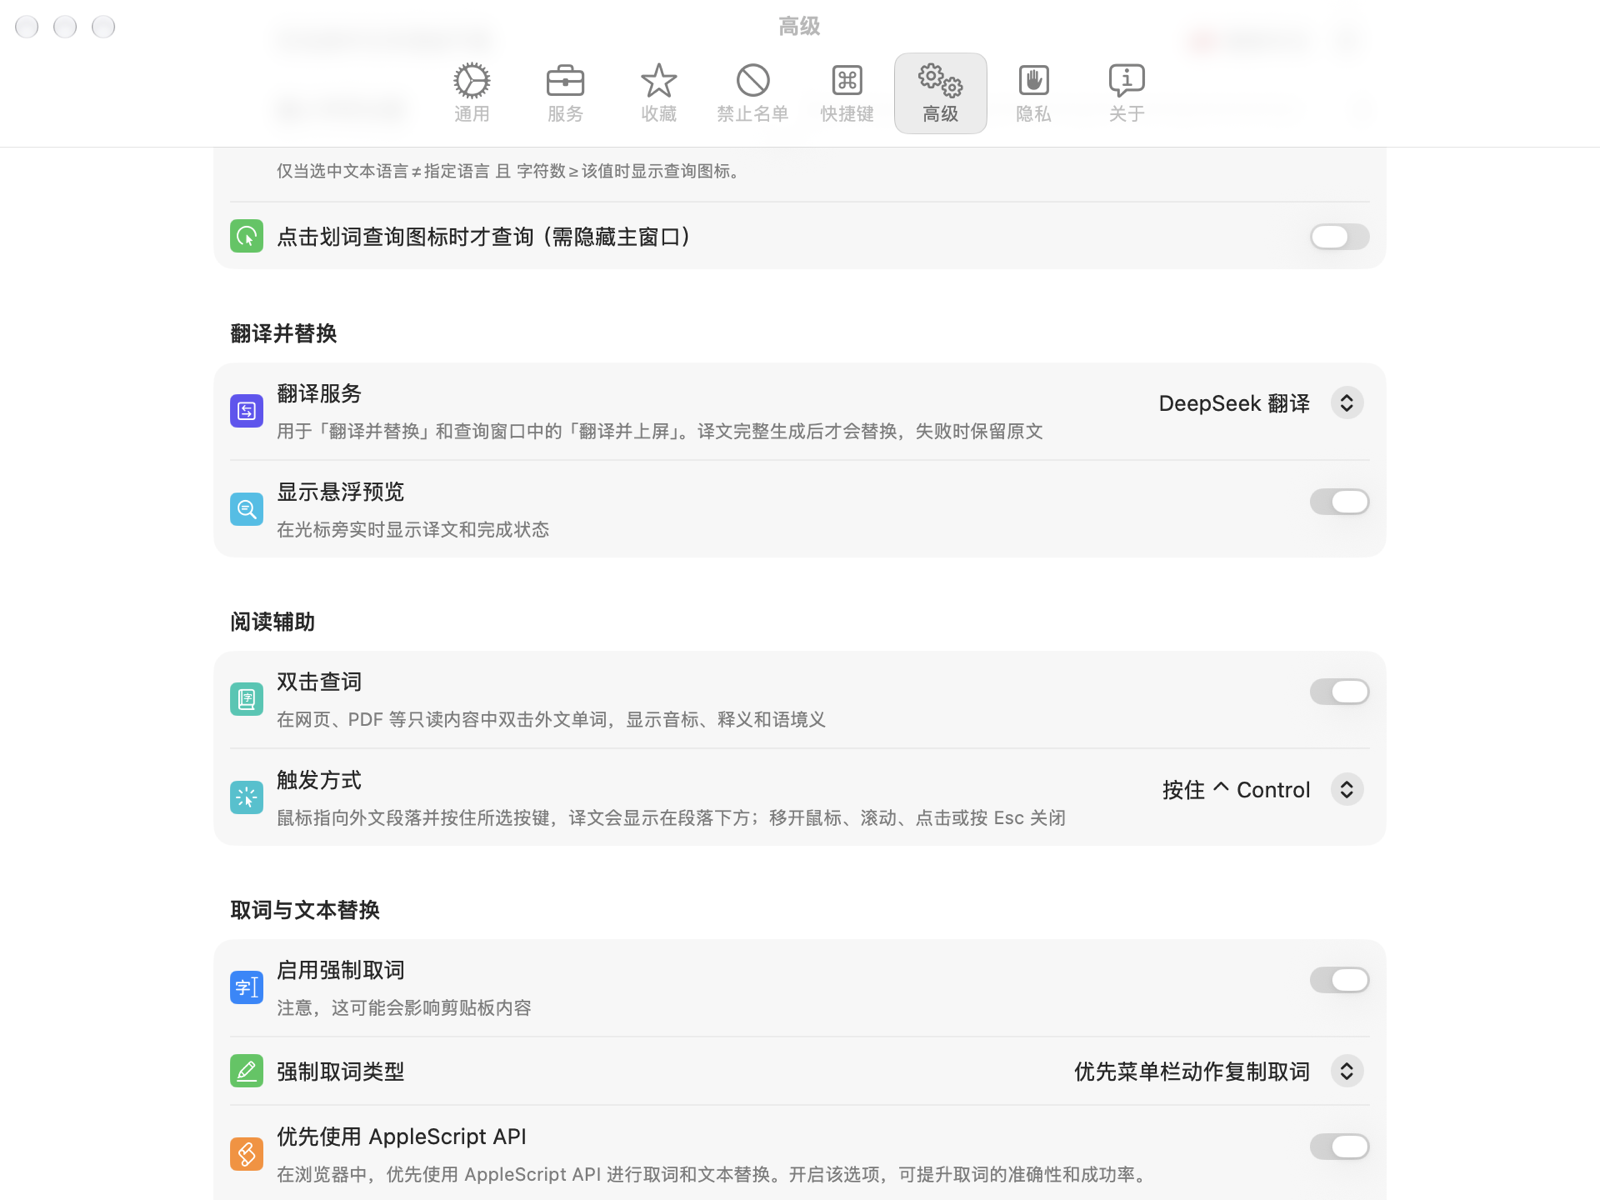
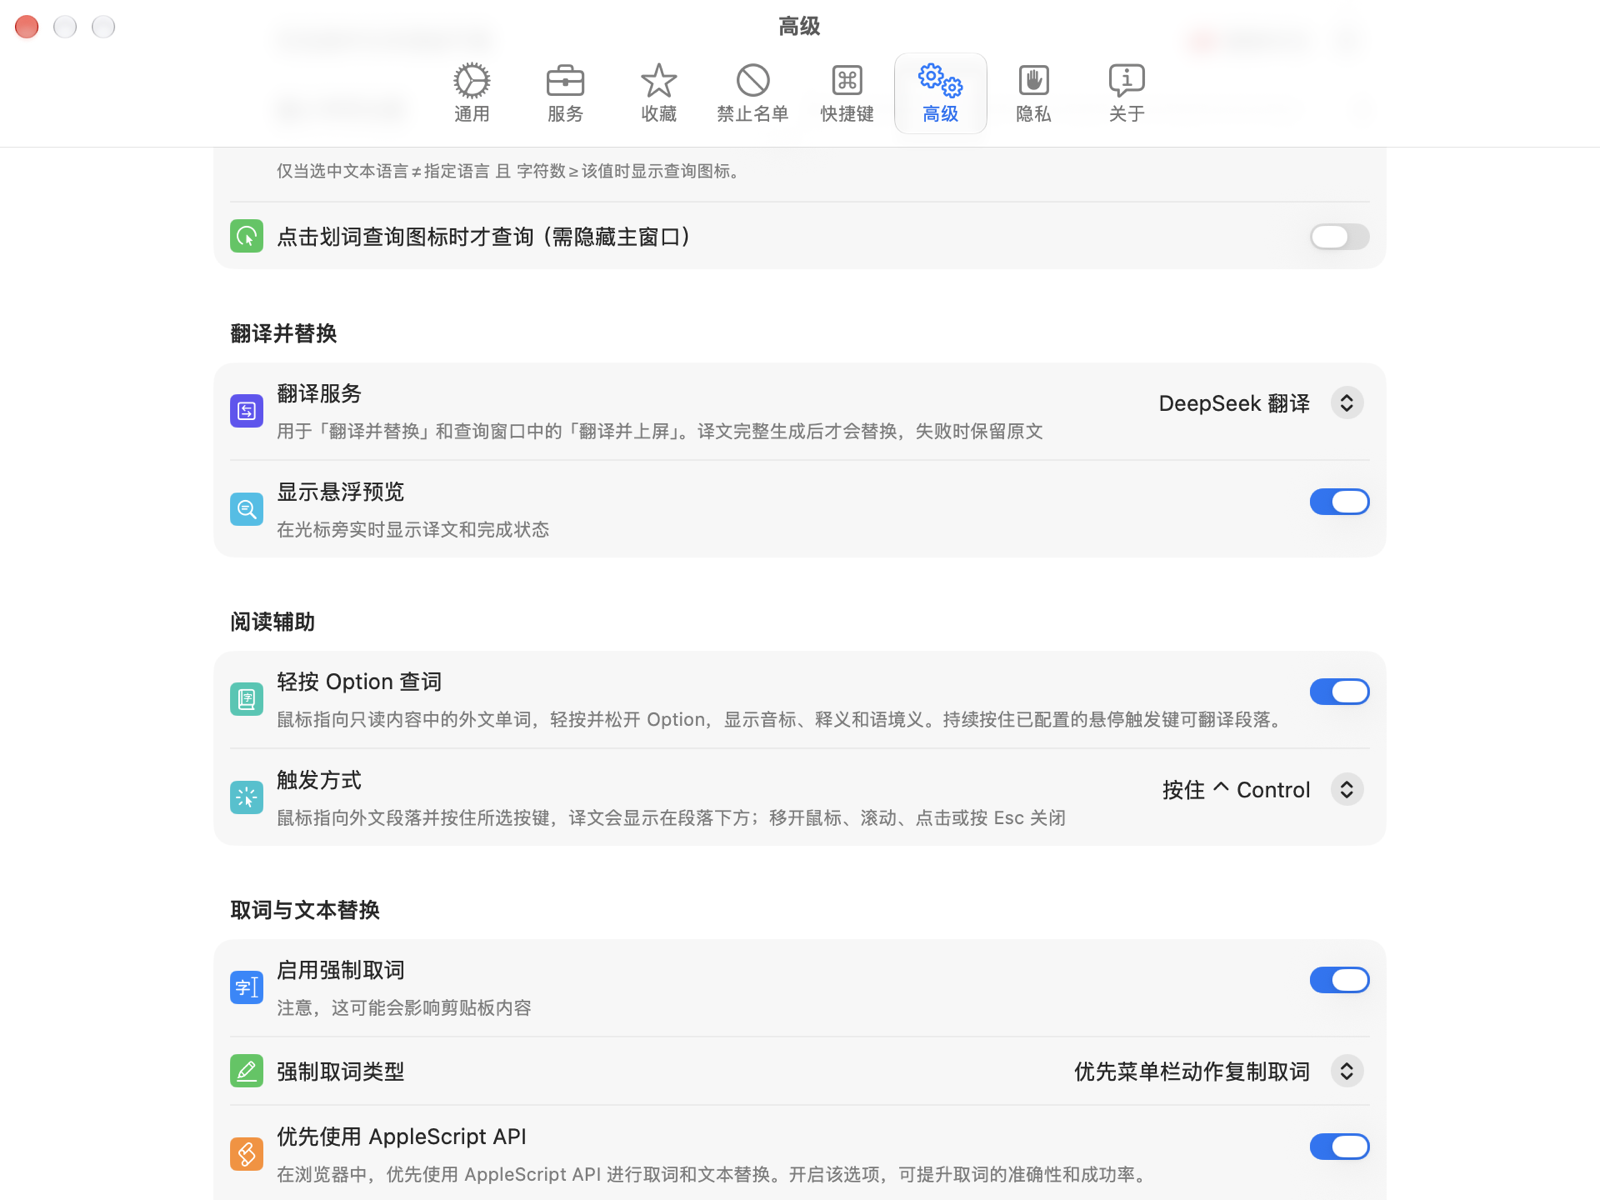
docs(plus): 更新轻按 Option 查词配图并记录 plus.2 发布
- 查词配图改为指针停在单词上、轻按 Option 的场景，去掉选中高亮
- 重新截取高级设置页，开关文案为"轻按 Option 查词"
- 升级问答补充：新版需在辅助功能列表中删除旧条目后重新添加

diff --git a/docs/histories/2026-10/2026-10-22-easydict-plus-release-2.25.0-plus.2.md b/docs/histories/2026-10/2026-10-22-easydict-plus-release-2.25.0-plus.2.md
@@ -1,0 +1,51 @@
+## 2026-10-22 | 任务：合并 PR #1 并发布 Easydict Plus 2.25.0-plus.2
+
+**Links:** [PR #1](https://github.com/pairslab/easydict-plus/pull/1) · `pairslab/easydict-plus` Release `v2.25.0-plus.2` ·
+[上一版发布记录](2026-10-21-easydict-plus-release.md)
+
+### 执行上下文
+
+- **Agent Name:** `Claude Code`
+- **Model:** `claude-opus-5-5`
+- **Environment:** `macOS 27.2 / Xcode 27.0 (27A5252f)`
+
+### 用户请求
+
+按同事的方案合并 PR #1（轻按 Option 查词取代双击查词、加快悬停识别等），然后重新发布一个安装包版本。
+
+### 变更
+
+- 以 merge commit 合并 PR #1（`d4e7b663`），代码改动见
+  [轻按修饰键查词](2026-10-21-option-tap-word-lookup.md) 与
+  [加快悬停翻译识别](2026-10-21-hover-translation-responsiveness.md)。
+- README 配图 `word-lookup.png` 改为指针停在单词上、轻按 `⌥ Option` 的场景，不再显示选中高亮；
+  `settings-advanced.png` 重新截取，开关文案为"轻按 Option 查词"。
+- README 升级问答补充：ad-hoc 签名的新版需在辅助功能列表中删除旧条目后重新添加。
+- 发布 `v2.25.0-plus.2`：版本 2.25.0，构建号由 68 提升为 69，以区分 plus.1。
+
+### 设计意图
+
+构建号通过外部 xcconfig 覆盖，签名与打包方式沿用 plus.1，不改动工程中原作者的版本和签名配置。
+配图沿用离线渲染场景与设置页辅助功能截图流程，与上一版图片取景一致。
+
+### 验证
+
+- 合并后的 Debug 构建：BUILD SUCCEEDED，无阅读辅助相关新增警告；本机调试版重启后悬停翻译正常启用。
+- `xcodebuild build -configuration Release -xcconfig <ad-hoc 签名覆盖 + CURRENT_PROJECT_VERSION = 69>`：
+  BUILD SUCCEEDED；`lipo -archs` 为 `x86_64 arm64`；Bundle ID `com.pairslab.EasydictPlus`、显示名、
+  版本 2.25.0 (69)、最低系统 13.0、URL Scheme、更新源均符合预期；简体中文资源包含"轻按 Option 查词"；
+  `codesign --verify --deep --strict` 通过（ad-hoc + hardened runtime）。
+- DMG（57.6 MB）`hdiutil verify` 通过；挂载后 DMG 内 App 签名校验通过，直接启动运行合并后的代码，
+  应用日志与系统日志均无 Firebase/Sentry 记录。
+- 未验证：从 plus.1 覆盖升级后重新授权辅助功能的流程（README 与发布说明给出步骤）；轻按查词的
+  跨应用实测以 PR #1 记录为准。
+
+### 受影响文件
+
+- `README.md`
+- `docs/assets/easydict-plus/word-lookup.png`
+- `docs/assets/easydict-plus/settings-advanced.png`
+
+### 后续事项
+
+- ad-hoc 签名的安装包每次升级后仍需重新授予辅助功能权限；如需免除，需使用 Developer ID 签名并公证。
